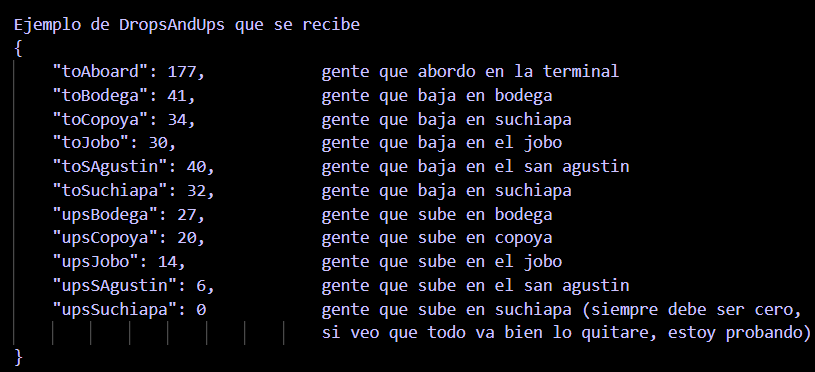
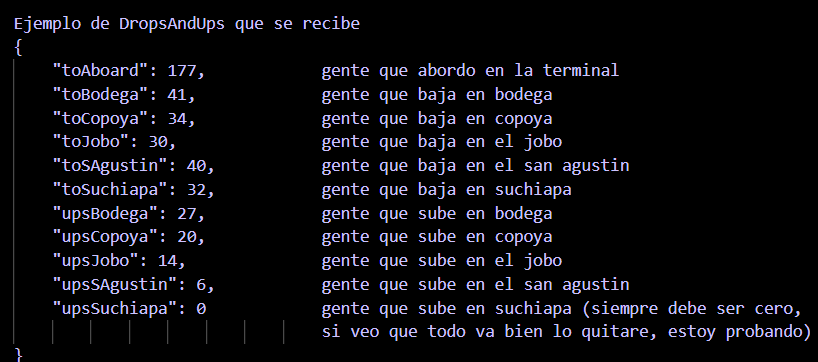
table and logic
Se muestra ya la tabla de salida (una forma grafica de la distribucion de los datos), sirve para evaluar mas facilmente la distribucion de las personas segun las tasas de movimiento de cada parada
Se ha cambiado la logica de la generacion de personas que suben y bajan, se tiene una forma mas organizada y mas facil de entender, tenia cuatro errores, uno se compuso y los otros 3 se truncaron (existen pero estan parcialmente arreglados)

diff --git a/DALGOS/tasas.py b/DALGOS/tasas.py
@@ -4,88 +4,148 @@ import os
 
 
 def dropsAndUps():
+    dropZ, upsZ = 0, 0
+    upsA, upsG, upsL, upsP, upsS      = 0, 0, 0, 0, 0
+    dropB, dropC, dropD, dropE, dropF = 0, 0, 0, 0, 0
+    dropH, dropI, dropJ, dropK, dropM = 0, 0, 0, 0, 0
+    dropN, dropO, dropQ, dropR, dropT = 0, 0, 0, 0, 0
+    
     jsonParamsPath = "jsons\\params.json"
     with open(jsonParamsPath, "r") as json_file:
         params = json.load(json_file)
     
-    #pa que se reinicien siempre
-    toAboard, toBodega, toCopoya, toJobo, toSAgustin, toSuchiapa = 0, 0, 0, 0, 0, 0
-    upsAboard, upsBodega, upsCopoya, upsJobo, upsSAgustin, upsSuchiapa = 0, 0, 0, 0, 0, 0
-
     #carga las variables que wa ocupar para sacar pa donde se va la gente
     entering = params["entering"]
     tsAborad = params["tsAboard"]
     tsBodega = params["tsBodega"]
     tsCopoya = params["tsCopoya"]
-    tsJobo = params["tsJobo"]
+    tsJobo   = params["tsJobo"]
     tsSAgustin = params["tsSAgustin"]
     tsSuchiapa = params["tsSuchiapa"]
     
     for _ in range(entering):
         rdmGeneral = random.randint(0, 100)
         if rdmGeneral <= tsAborad:
-            toAboard += 1
+            upsA += 1
     
     #normalizar las tasas para las bajadas
     tsTotal = tsBodega + tsCopoya + tsJobo + tsSAgustin + tsSuchiapa
-    normTsBodega = (tsBodega / tsTotal) * toAboard
-    normTsCopoya = (tsCopoya / tsTotal) * toAboard
-    normTsJobo = (tsJobo / tsTotal) * toAboard
-    normTsSAgustin = (tsSAgustin / tsTotal) * toAboard
-    normTsSuchiapa = (tsSuchiapa / tsTotal) * toAboard
+    normTsBodega    = (tsBodega   / tsTotal) * upsA
+    normTsCopoya    = (tsCopoya   / tsTotal) * upsA
+    normTsJobo      = (tsJobo     / tsTotal) * upsA
+    normTsSAgustin  = (tsSAgustin / tsTotal) * upsA
+    normTsSuchiapa  = (tsSuchiapa / tsTotal) * upsA
+    #Normalizacion de las subidas de cada parada en funcion de las bajadas (un truquito)
+    normUpsBodega   = int((tsBodega   / tsTotal) * normTsBodega)
+    normUpsCopoya   = int((tsCopoya   / tsTotal) * normTsCopoya)
+    normUpsJobo     = int((tsJobo     / tsTotal) * normTsJobo)
+    normUpsSAgustin = int((tsSAgustin / tsTotal) * normTsSAgustin)
+    normUpsSuchiapa = int((tsSuchiapa / tsTotal) * normTsSuchiapa)
+    #Rangos para ahorrar lineas
+    rangoBodega     = normUpsBodega
+    rangoCopoya     = rangoBodega   + normUpsCopoya
+    rangoJobo       = rangoCopoya   + normUpsJobo
+    rangoSAgustin   = rangoJobo     + normUpsSAgustin
+    rangoSuchiapa   = rangoSAgustin + normUpsSuchiapa
+    #Rangos de tuxtla
+    rangoNBodega    = normTsBodega
+    rangoNCopoya    = rangoNBodega   + normTsCopoya
+    rangoNJobo      = rangoNCopoya   + normTsJobo
+    rangoNSAgustin  = rangoNJobo     + normTsSAgustin
+    rangoNSuchiapa  = rangoNSAgustin + normTsSuchiapa
     
-    #pa no afectar el Abordaje inicial
-    upsAboard = toAboard
+    ############################################################################################################################
+    # TUXTLA
+    upsARemains = upsA
+    for _ in range(upsA):
+        rdmSel = random.randint(0, upsA)
+        if rdmSel <= rangoNBodega:
+            dropB += 1
+        elif rdmSel <= rangoNCopoya:
+            dropC += 1
+        elif rdmSel <= rangoNJobo:
+            dropD += 1
+        elif rdmSel <= rangoNSAgustin:
+            dropE += 1
+        elif rdmSel <= rangoNSuchiapa:
+            dropF += 1
+    tuxtla = [upsA, dropZ, dropB, dropC, dropD, dropE, dropF]
     
-    for _ in range(toAboard):
-        rdmSel = random.randint(0, toAboard)
-        #aqui se calculan los Drops
-        if rdmSel <= normTsBodega:
-            toBodega += 1
-        elif rdmSel <= normTsBodega + normTsCopoya:
-            toCopoya += 1
-        elif rdmSel <= normTsBodega + normTsCopoya + normTsJobo:
-            toJobo += 1
-        elif rdmSel <= normTsBodega + normTsCopoya + normTsJobo + normTsSAgustin:
-            toSAgustin += 1
-        elif rdmSel <= normTsBodega + normTsCopoya + normTsJobo + normTsSAgustin + normTsSuchiapa:
-            toSuchiapa += 1
-            
-    #print(toAboard)
-    #print(toBodega, toCopoya, toJobo, toSAgustin, toSuchiapa)
-    #summ = normTsBodega + normTsCopoya + normTsJobo + normTsSAgustin + normTsSuchiapa
+    ############################################################################################################################
+    # BODEGA AURRERA
+    upsARemains -= dropB
+    upsG = int((tsBodega / 100) * upsARemains)
+    for _ in range(upsG):
+        rdmBod = random.randint(0, upsG)
+        if rdmBod <= rangoBodega:
+            dropH += 1
+        elif rdmBod <= rangoCopoya:
+            dropI += 1
+        elif rdmBod <= rangoJobo:
+            dropJ += 1
+        else:
+            dropK += 1
+    bodegaAurrera = [upsG, dropZ, dropZ, dropH, dropI, dropJ, dropK]
     
-    #aqui se calculan los Ups
-    upsAboard -= toBodega
-    upsBodega = int((tsBodega / 100) * upsAboard)
-    upsAboard -= toCopoya
-    upsCopoya = int((tsCopoya / 100) * upsAboard)
-    upsAboard -= toJobo
-    upsJobo = int((tsJobo / 100) * upsAboard)
-    upsAboard -= toSAgustin
-    upsSAgustin = int((tsSAgustin / 100) * upsAboard)
-    upsAboard -= toSuchiapa
-    upsSuchiapa = int((tsSuchiapa / 100) * upsAboard)
-    #NOTA: No se si tendre problemas con todas las autoasignaciones de upsAboard
+    ############################################################################################################################
+    # COPOYA
+    upsARemains -= dropC
+    upsL = int((tsCopoya / 100) * upsARemains)
+    for _ in range(upsL):
+        rdmCop = random.randint(0, upsL)
+        if rdmCop <= rangoCopoya/2:
+            dropM += 1
+        elif rdmCop <= rangoJobo/1.5:
+            dropN += 1
+        else:
+            dropO += 1
+    copoya = [upsL, dropZ, dropZ, dropZ, dropM, dropN, dropO]
     
+    ############################################################################################################################
+    # EL JOBO
+    upsARemains -= dropD
+    upsP = int((tsJobo / 100) * upsARemains)
+    for _ in range(upsP):
+        rdmJob = random.randint(0, upsP)
+        if rdmJob <= rangoJobo/3:
+            dropQ += 1
+        else:
+            dropR += 1
+    jobo = [upsP, dropZ, dropZ, dropZ, dropZ, dropQ, dropR]
+    
+    ############################################################################################################################
+    # SAN AGUSTIN
+    upsARemains -= dropE
+    upsS = int((tsSAgustin / 100) * upsARemains)
+    for _ in range(upsS):
+        rdmSAg = random.randint(0, upsS)
+        if rdmSAg <= rangoSAgustin:
+            dropT += 1
+    sAgustin = [upsS, dropZ, dropZ, dropZ, dropZ, dropZ, dropT]
+    
+    ############################################################################################################################
+    # SUCHIAPA
+    suchiapa = [upsZ, dropZ, dropZ, dropZ, dropZ, dropZ, dropZ]
+    
+    allUps = upsA + upsG + upsL + upsP + upsS + upsZ
+    dropCH = dropC + dropH
+    dropDIM = dropD + dropI + dropM
+    dropEJNQ = dropE + dropJ + dropN + dropQ
+    dropFKORT = dropF + dropK + dropO + dropR + dropT
+    allDrops = dropZ + dropB + dropCH + dropDIM + dropEJNQ + dropFKORT
+    totalUps = [upsA, upsG, upsL, upsP, upsS, upsZ, allUps]
+    totalDrops = [dropZ, dropB, dropCH, dropDIM, dropEJNQ, dropFKORT, allDrops]
+
     dropsandups = {
-        #los que suben
-        "toAboard": toAboard,
-        
-        # Drops (los que bajan)
-        "toBodega": toBodega,
-        "toCopoya": toCopoya,
-        "toJobo": toJobo,
-        "toSAgustin": toSAgustin,
-        "toSuchiapa": toSuchiapa,
-        
-        # Ups (los que suben)
-        "upsBodega": upsBodega,
-        "upsCopoya": upsCopoya,
-        "upsJobo": upsJobo,
-        "upsSAgustin": upsSAgustin,
-        "upsSuchiapa": upsSuchiapa,
-        }
+        "tuxtla": tuxtla,
+        "bodega": bodegaAurrera,
+        "copoya": copoya,
+        "jobo": jobo,
+        "sAgustin": sAgustin,
+        "suchiapa": suchiapa,
+        "ups": totalUps,
+        "drops": totalDrops,
+    }
     
     os.makedirs('jsons', exist_ok=True)
     with open('jsons/dropsandups.json', 'w') as json_file:

diff --git a/DALGOS/graphics.py b/DALGOS/graphics.py
@@ -1,0 +1,40 @@
+import json
+import matplotlib.pyplot as plt
+import pandas as pd
+
+def table():
+    with open('jsons/dropsandups.json', 'r') as file:
+        data = json.load(file)
+        
+    #Asi pq no se puede generar en automatico con las posiciones que ocupo
+    df_correct = pd.DataFrame([
+        [data["ups"][0], data["drops"][0], data["tuxtla"][1], data["tuxtla"][2], data["tuxtla"][3], data["tuxtla"][4], data["tuxtla"][5], data["tuxtla"][6]],
+        [data["ups"][1], data["drops"][1], data["bodega"][1], data["bodega"][2], data["bodega"][3], data["bodega"][4], data["bodega"][5], data["bodega"][6]],
+        [data["ups"][2], data["drops"][2], data["copoya"][1], data["copoya"][2], data["copoya"][3], data["copoya"][4], data["copoya"][5], data["copoya"][6]],
+        [data["ups"][3], data["drops"][3], data["jobo"][1], data["jobo"][2], data["jobo"][3], data["jobo"][4], data["jobo"][5], data["jobo"][6]],
+        [data["ups"][4], data["drops"][4], data["sAgustin"][1], data["sAgustin"][2], data["sAgustin"][3], data["sAgustin"][4], data["sAgustin"][5], data["sAgustin"][6]],
+        [data["ups"][5], data["drops"][5], data["suchiapa"][1], data["suchiapa"][2], data["suchiapa"][3], data["suchiapa"][4], data["suchiapa"][5], data["suchiapa"][6]],
+        [data["ups"][6], data["drops"][6], '', '', '', '', '', '']
+    ], columns=["Suben", "Bajan", "Tuxtla", "Bodega", "Copoya", "Jobo", "San Agustin", "Suchiapa"],
+        index=["Tuxtla", "Bodega", "Copoya", "Jobo", "San Agustin", "Suchiapa", "Total"])
+
+    # Graficar la tabla
+    fig, ax = plt.subplots(figsize=(14, 6))
+    ax.axis('off')
+
+    table_correct = ax.table(cellText=df_correct.values, 
+                            colLabels=df_correct.columns, 
+                            rowLabels=df_correct.index, 
+                            cellLoc='center', 
+                            loc='center')
+
+    table_correct.auto_set_font_size(False)
+    table_correct.set_fontsize(12)
+    table_correct.scale(1.0, 2.0)
+
+    for (i, j), cell in table_correct.get_celld().items():
+        cell.set_edgecolor('black')
+        cell.set_linewidth(1.5)
+
+    plt.title("Datos de Subidas y Bajadas", fontsize=16)
+    plt.show()

diff --git a/DALGOS/params.py b/DALGOS/params.py
@@ -9,6 +9,7 @@ def submit(paramsWindow, entries):
         params = {
             "entering": int(entries['entering'].get()),
             "tsAboard": int(entries['tsAboard'].get()),
+            "tsTuxtla": int(entries['tsTuxtla'].get()),
             "tsBodega": int(entries['tsBodega'].get()),
             "tsCopoya": int(entries['tsCopoya'].get()),
             "tsJobo":   int(entries['tsJobo'].get()),
@@ -91,6 +92,7 @@ def ventanaParametral():
     entries['tsSuchiapa'] = tk.Entry(squaredParams)
     entries['tsSuchiapa'].grid(row=7, column=1)
     #ENTRADAS OCULTAS
+    entries['tsTuxtla'] = tk.Entry(squaredParams)
     entries['initialPopu'] = tk.Entry(squaredParams)
     entries['maxiPopu'] = tk.Entry(squaredParams)
     entries['mutationIndiProba'] = tk.Entry(squaredParams)
@@ -105,9 +107,10 @@ def ventanaParametral():
     entries['tsJobo'].insert(0, "20")
     entries['tsSAgustin'].insert(0, "20")
     entries['tsSuchiapa'].insert(0, "20")
-    #NOTA!!! entre tsBodega, tsCopoya, tsJobo, tsSAgustin, tsSuchiapa deben sumar 100
+    #NOTA!!! entre tsTuxtla, tsBodega, tsCopoya, tsJobo, tsSAgustin, tsSuchiapa deben sumar 100
     
     #valores predeterminados de entradas ocultas
+    entries['tsTuxtla'].insert(0, "0")
     entries['initialPopu'].insert(0, "20")
     entries['maxiPopu'].insert(0, "50")
     entries['mutationIndiProba'].insert(0, "10")

diff --git a/DALGOS/main.py b/DALGOS/main.py
@@ -1,7 +1,7 @@
-import json
-import random
 from params import ventanaParametral
 from tasas import dropsAndUps
+from graphics import table
+import matplotlib.pyplot as plt
 
 def main():
     ventanaParametral()
@@ -22,13 +22,13 @@ def main():
         "generationNumber": 30      numero de generaciones
     }
     #"""
-    print(dropsAndUps())
+    dropsAndUps()
     """ 
     Ejemplo de DropsAndUps que se recibe
     {
         "toAboard": 177,            gente que abordo en la terminal
         "toBodega": 41,             gente que baja en bodega
-        "toCopoya": 34,             gente que baja en suchiapa
+        "toCopoya": 34,             gente que baja en copoya
         "toJobo": 30,               gente que baja en el jobo
         "toSAgustin": 40,           gente que baja en el san agustin
         "toSuchiapa": 32,           gente que baja en suchiapa
@@ -40,6 +40,7 @@ def main():
                                     si veo que todo va bien lo quitare, estoy probando)
     }
     #"""
+    table()
 
 if __name__ == "__main__":
     main()

diff --git a/README.md b/README.md
@@ -14,7 +14,7 @@ DALGOS no es mas que un nombre para la forma base en que se implementa el algori
 4. Archivo de Mutacion
 5. Archivo de Poda
 6. Archivo de Graficas
-7. Carpeta de jsons
+7. Carpeta de salidas jsons
 
 Por otro lado AlgoGen, si es un proyecto que aplica un algoritmo genetico que aplica a DALGOS como estructura para una problematica ficticia en la que se optimiza un valor. En dicho proyecto podremos identificar las 7 caracteristicas mas destacables de DALGOS.
 
@@ -75,3 +75,6 @@ Los Ups son las personas que se suben en cada parada.
 2. En cada parada se van restando al total de personas abordadas las personas que ya bajaron. Es decir al abordaje total se le van restando los Dropeos de cada parada y al obtener esta nuebo numero de personas, se calcula la cantidad de gente que se convierte en un Up con ayuda de la tasa de movimiento,
 
 ![DropsAndUpsSample.png](image/README/DropsAndUpsSample.png "Ejemplo de DropsAndUps Recibido")
+
+
+jgv
